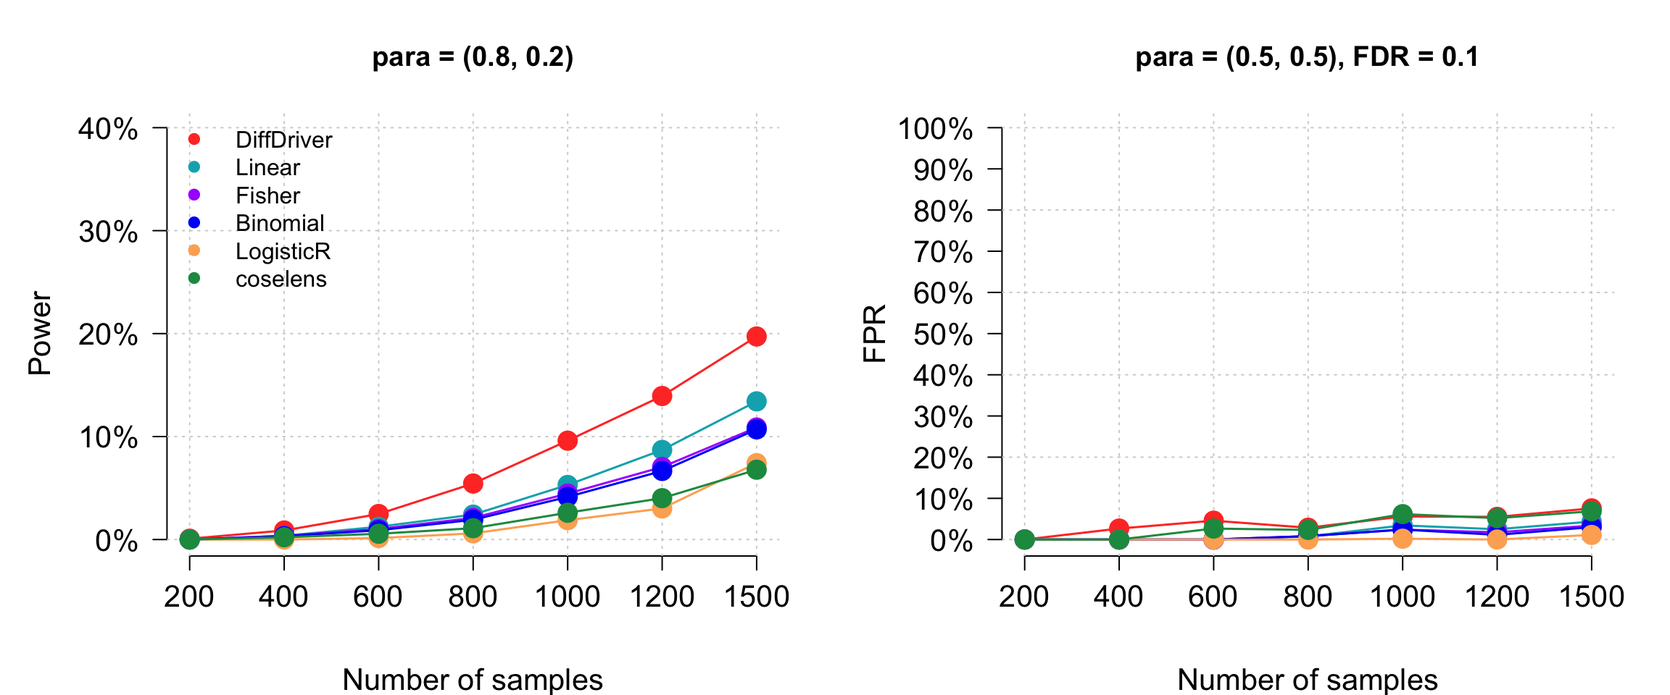
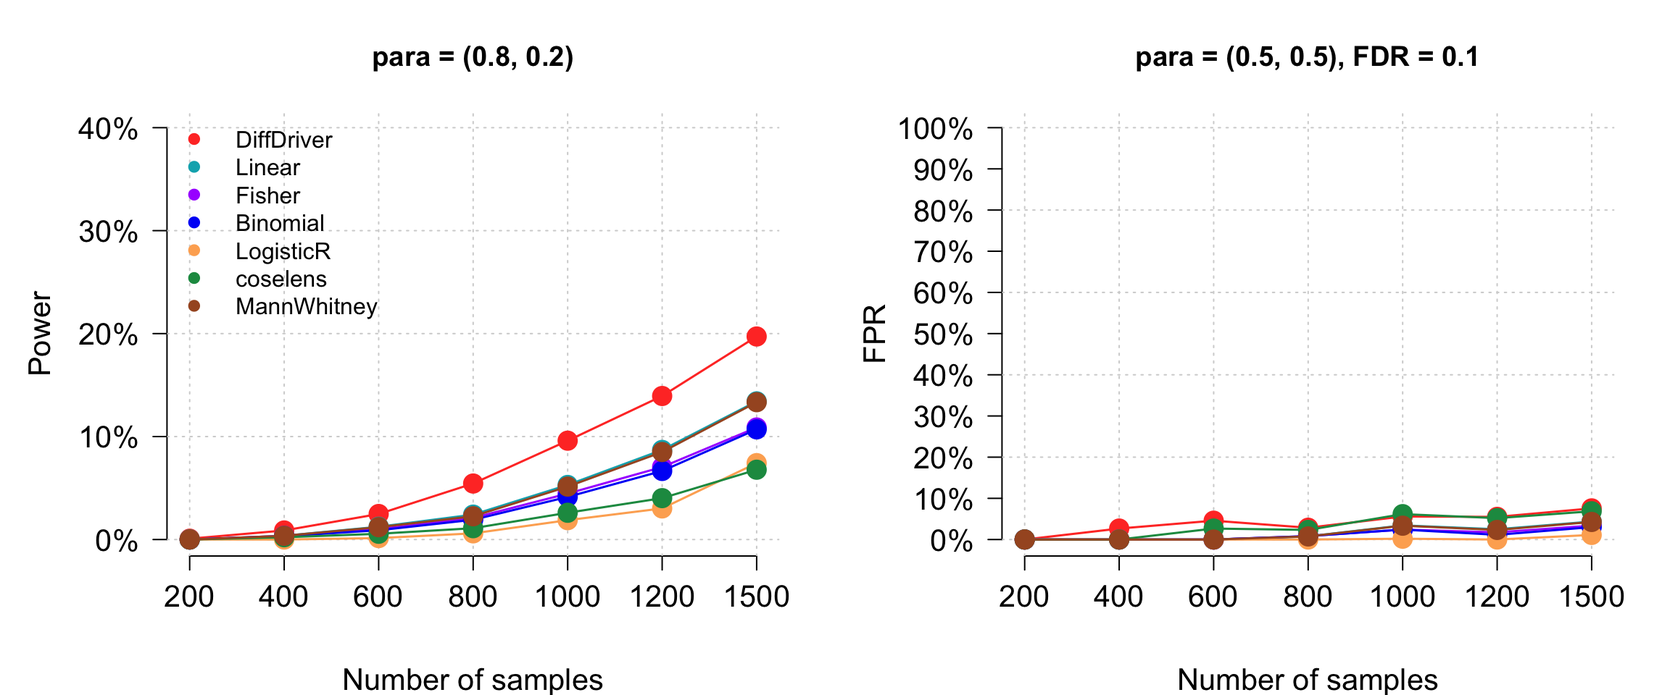
Add Mann-Whitney test to the benchmark (TSG_binary_0.8)
Wilcoxon rank-sum on per-gene per-sample mutation counts (case vs control),
run on the saved raw cohorts. load_and_compute now adds any available extra
method (coselens, Mann-Whitney) generically; Mann-Whitney tracks the
count-based tests (power ~0.13 at N=1500, controlled FPR).

diff --git a/docs/simulation-power.html b/docs/simulation-power.html
@@ -629,15 +629,15 @@ project makes it easier to run your code on other machines.</p>
 <div class="panel panel-default">
 <div class="panel-heading">
 <p class="panel-title">
-<a data-toggle="collapse" data-parent="#workflowr-checks" href="#strongRepositoryversionstrongahrefhttpsgithubcomszhaolabDiffDriverPAPERtree90bcec619e1206fe3d21bc9b15fc16f7dc23b557targetblank90bcec6a">
+<a data-toggle="collapse" data-parent="#workflowr-checks" href="#strongRepositoryversionstrongahrefhttpsgithubcomszhaolabDiffDriverPAPERtree75326b2c75913e662bfd93378420faafb4f3c619targetblank75326b2a">
 <span class="glyphicon glyphicon-ok text-success"
 aria-hidden="true"></span> <strong>Repository version:</strong>
-<a href="https://github.com/szhaolab/DiffDriver-PAPER/tree/90bcec619e1206fe3d21bc9b15fc16f7dc23b557" target="_blank">90bcec6</a>
+<a href="https://github.com/szhaolab/DiffDriver-PAPER/tree/75326b2c75913e662bfd93378420faafb4f3c619" target="_blank">75326b2</a>
 </a>
 </p>
 </div>
 <div
[2 lines of base64/hex data omitted]
 class="panel-collapse collapse">
 <div class="panel-body">
 <p>
@@ -647,7 +647,7 @@ reproducibility.
 </p>
 <p>
 The results in this page were generated with repository version
-<a href="https://github.com/szhaolab/DiffDriver-PAPER/tree/90bcec619e1206fe3d21bc9b15fc16f7dc23b557" target="_blank">90bcec6</a>.
+<a href="https://github.com/szhaolab/DiffDriver-PAPER/tree/75326b2c75913e662bfd93378420faafb4f3c619" target="_blank">75326b2</a>.
 See the <em>Past versions</em> tab to see a history of the changes made
 to the R Markdown and HTML files.
 </p>
@@ -713,6 +713,40 @@ Message
 </tr>
 </thead>
 <tbody>
+<tr>
+<td>
+Rmd
+</td>
+<td>
+<a href="https://github.com/szhaolab/DiffDriver-PAPER/blob/75326b2c75913e662bfd93378420faafb4f3c619/analysis/simulation-power.Rmd" target="_blank">75326b2</a>
+</td>
+<td>
+Siming
+</td>
+<td>
+2026-07-04
+</td>
+<td>
+Add coselens to the TSG_binary_0.8 power/FPR plot
+</td>
+</tr>
+<tr>
+<td>
+html
+</td>
+<td>
+<a href="https://rawcdn.githack.com/szhaolab/DiffDriver-PAPER/75326b2c75913e662bfd93378420faafb4f3c619/docs/simulation-power.html" target="_blank">75326b2</a>
+</td>
+<td>
+Siming
+</td>
+<td>
+2026-07-04
+</td>
+<td>
+Add coselens to the TSG_binary_0.8 power/FPR plot
+</td>
+</tr>
 <tr>
 <td>
 Rmd
@@ -1103,9 +1137,9 @@ diffdriver package supplies the underlying model and test functions.</p>
 <div class="sourceCode" id="cb13"><pre class="sourceCode r"><code class="sourceCode r"><span id="cb13-1"><a href="#cb13-1" tabindex="-1"></a>knitr<span class="sc">::</span>opts_chunk<span class="sc">$</span><span class="fu">set</span>(<span class="at">echo =</span> <span class="cn">TRUE</span>)</span>
 <span id="cb13-2"><a href="#cb13-2" tabindex="-1"></a></span>
 <span id="cb13-3"><a href="#cb13-3" tabindex="-1"></a>METHODS      <span class="ot">&lt;-</span> <span class="fu">c</span>(<span class="st">&quot;DiffDriver&quot;</span>, <span class="st">&quot;Linear&quot;</span>, <span class="st">&quot;Fisher&quot;</span>, <span class="st">&quot;Binomial&quot;</span>, <span class="st">&quot;LogisticR&quot;</span>)</span>
-<span id="cb13-4"><a href="#cb13-4" tabindex="-1"></a><span class="co"># 6th colour is used for coselens, which is added only for settings that have a</span></span>
-<span id="cb13-5"><a href="#cb13-5" tabindex="-1"></a><span class="co"># pppower_all_&lt;SETTING&gt;_coselens.Rd file (see load_and_compute).</span></span>
-<span id="cb13-6"><a href="#cb13-6" tabindex="-1"></a>MYCOL        <span class="ot">&lt;-</span> <span class="fu">c</span>(<span class="st">&quot;#FF3D2E&quot;</span>, <span class="st">&quot;#00AFBB&quot;</span>, <span class="st">&quot;#aa00ff&quot;</span>, <span class="st">&quot;#0001f6&quot;</span>, <span class="st">&quot;#fdae61&quot;</span>, <span class="st">&quot;#1a9850&quot;</span>)</span>
+<span id="cb13-4"><a href="#cb13-4" tabindex="-1"></a><span class="co"># Colours 6+ are for the extra methods (coselens, Mann-Whitney), added only for</span></span>
+<span id="cb13-5"><a href="#cb13-5" tabindex="-1"></a><span class="co"># settings that have the corresponding pppower_all_&lt;SETTING&gt;_&lt;method&gt;.Rd (load_and_compute).</span></span>
+<span id="cb13-6"><a href="#cb13-6" tabindex="-1"></a>MYCOL        <span class="ot">&lt;-</span> <span class="fu">c</span>(<span class="st">&quot;#FF3D2E&quot;</span>, <span class="st">&quot;#00AFBB&quot;</span>, <span class="st">&quot;#aa00ff&quot;</span>, <span class="st">&quot;#0001f6&quot;</span>, <span class="st">&quot;#fdae61&quot;</span>, <span class="st">&quot;#1a9850&quot;</span>, <span class="st">&quot;#a65628&quot;</span>)</span>
 <span id="cb13-7"><a href="#cb13-7" tabindex="-1"></a>FDR          <span class="ot">&lt;-</span> <span class="fl">0.1</span></span>
 <span id="cb13-8"><a href="#cb13-8" tabindex="-1"></a>BINARY_SIZES <span class="ot">&lt;-</span> <span class="fu">c</span>(<span class="dv">200</span>, <span class="dv">400</span>, <span class="dv">600</span>, <span class="dv">800</span>, <span class="dv">1000</span>, <span class="dv">1200</span>, <span class="dv">1500</span>)</span>
 <span id="cb13-9"><a href="#cb13-9" tabindex="-1"></a>CONTI_SIZES  <span class="ot">&lt;-</span> <span class="fu">c</span>(<span class="dv">200</span>, <span class="dv">400</span>, <span class="dv">600</span>, <span class="dv">800</span>, <span class="dv">1000</span>, <span class="dv">1200</span>)</span>
@@ -1166,92 +1200,99 @@ diffdriver package supplies the underlying model and test functions.</p>
 <span id="cb13-64"><a href="#cb13-64" tabindex="-1"></a>  diff_all  <span class="ot">&lt;-</span> ed<span class="sc">$</span>simures_all</span>
 <span id="cb13-65"><a href="#cb13-65" tabindex="-1"></a>  other_all <span class="ot">&lt;-</span> eo<span class="sc">$</span>simures_all</span>
 <span id="cb13-66"><a href="#cb13-66" tabindex="-1"></a></span>
-<span id="cb13-67"><a href="#cb13-67" tabindex="-1"></a>  <span class="co"># coselens is included only where a consolidated coselens file exists for the setting</span></span>
-<span id="cb13-68"><a href="#cb13-68" tabindex="-1"></a>  <span class="co"># (each gene key holds a $coselens.pvalue vector, same format as the other methods).</span></span>
-<span id="cb13-69"><a href="#cb13-69" tabindex="-1"></a>  cos_file <span class="ot">&lt;-</span> <span class="fu">file.path</span>(base, <span class="fu">sprintf</span>(<span class="st">&quot;pppower_all_%s_coselens.Rd&quot;</span>, setting))</span>
-<span id="cb13-70"><a href="#cb13-70" tabindex="-1"></a>  has_cos  <span class="ot">&lt;-</span> <span class="fu">file.exists</span>(cos_file)</span>
-<span id="cb13-71"><a href="#cb13-71" tabindex="-1"></a>  <span class="cf">if</span> (has_cos) { ec <span class="ot">&lt;-</span> <span class="fu">new.env</span>(); <span class="fu">load</span>(cos_file, <span class="at">envir =</span> ec); cos_all <span class="ot">&lt;-</span> ec<span class="sc">$</span>simures_all }</span>
-<span id="cb13-72"><a href="#cb13-72" tabindex="-1"></a>  methods   <span class="ot">&lt;-</span> <span class="cf">if</span> (has_cos) <span class="fu">c</span>(METHODS, <span class="st">&quot;coselens&quot;</span>) <span class="cf">else</span> METHODS</span>
-<span id="cb13-73"><a href="#cb13-73" tabindex="-1"></a>  n_methods <span class="ot">&lt;-</span> <span class="fu">length</span>(methods)</span>
-<span id="cb13-74"><a href="#cb13-74" tabindex="-1"></a></span>
-<span id="cb13-75"><a href="#cb13-75" tabindex="-1"></a>  power_mat <span class="ot">&lt;-</span> fpr_mat <span class="ot">&lt;-</span> <span class="fu">matrix</span>(</span>
-<span id="cb13-76"><a href="#cb13-76" tabindex="-1"></a>    <span class="at">nrow =</span> n_methods, <span class="at">ncol =</span> <span class="fu">length</span>(sample_sizes),</span>
-<span id="cb13-77"><a href="#cb13-77" tabindex="-1"></a>    <span class="at">dimnames =</span> <span class="fu">list</span>(methods, sample_sizes)</span>
-<span id="cb13-78"><a href="#cb13-78" tabindex="-1"></a>  )</span>
-<span id="cb13-79"><a href="#cb13-79" tabindex="-1"></a>  <span class="cf">for</span> (s <span class="cf">in</span> <span class="fu">seq_along</span>(sample_sizes)) {</span>
-<span id="cb13-80"><a href="#cb13-80" tabindex="-1"></a>    N <span class="ot">&lt;-</span> sample_sizes[s]</span>
-<span id="cb13-81"><a href="#cb13-81" tabindex="-1"></a>    m.pvalue <span class="ot">&lt;-</span> <span class="cn">NULL</span></span>
-<span id="cb13-82"><a href="#cb13-82" tabindex="-1"></a>    n_iter   <span class="ot">&lt;-</span> <span class="cn">NULL</span></span>
-<span id="cb13-83"><a href="#cb13-83" tabindex="-1"></a>    <span class="cf">for</span> (g <span class="cf">in</span> <span class="fu">seq_len</span>(n_genes)) {</span>
-<span id="cb13-84"><a href="#cb13-84" tabindex="-1"></a>      key   <span class="ot">&lt;-</span> <span class="fu">sub</span>(<span class="st">&quot;</span><span class="sc">\\</span><span class="st">.Rd$&quot;</span>, <span class="st">&quot;&quot;</span>, <span class="fu">file_fn</span>(N, g))</span>
-<span id="cb13-85"><a href="#cb13-85" tabindex="-1"></a>      sdiff <span class="ot">&lt;-</span> diff_all[[key]]</span>
-<span id="cb13-86"><a href="#cb13-86" tabindex="-1"></a>      soth  <span class="ot">&lt;-</span> other_all[[key]]</span>
-<span id="cb13-87"><a href="#cb13-87" tabindex="-1"></a>      <span class="cf">if</span> (<span class="fu">is.null</span>(n_iter)) {</span>
-<span id="cb13-88"><a href="#cb13-88" tabindex="-1"></a>        n_avail <span class="ot">&lt;-</span> <span class="fu">length</span>(sdiff[[<span class="st">&quot;m1.pvalue&quot;</span>]])</span>
-<span id="cb13-89"><a href="#cb13-89" tabindex="-1"></a>        n_iter  <span class="ot">&lt;-</span> <span class="cf">if</span> (<span class="sc">!</span><span class="fu">is.null</span>(Nsim)) <span class="fu">min</span>(Nsim, n_avail) <span class="cf">else</span> n_avail</span>
-<span id="cb13-90"><a href="#cb13-90" tabindex="-1"></a>        m.pvalue <span class="ot">&lt;-</span> <span class="fu">lapply</span>(<span class="fu">seq_len</span>(n_methods), <span class="cf">function</span>(x)</span>
-<span id="cb13-91"><a href="#cb13-91" tabindex="-1"></a>          <span class="fu">matrix</span>(<span class="at">nrow =</span> n_genes, <span class="at">ncol =</span> n_iter))</span>
-<span id="cb13-92"><a href="#cb13-92" tabindex="-1"></a>      }</span>
-<span id="cb13-93"><a href="#cb13-93" tabindex="-1"></a>      idx <span class="ot">&lt;-</span> <span class="fu">seq_len</span>(n_iter)</span>
-<span id="cb13-94"><a href="#cb13-94" tabindex="-1"></a>      m.pvalue[[<span class="dv">1</span>]][g, ] <span class="ot">&lt;-</span> sdiff[[<span class="st">&quot;m1.pvalue&quot;</span>]][idx]</span>
-<span id="cb13-95"><a href="#cb13-95" tabindex="-1"></a>      m.pvalue[[<span class="dv">2</span>]][g, ] <span class="ot">&lt;-</span> soth[[<span class="st">&quot;m1.pvalue&quot;</span>]][idx]</span>
-<span id="cb13-96"><a href="#cb13-96" tabindex="-1"></a>      m.pvalue[[<span class="dv">3</span>]][g, ] <span class="ot">&lt;-</span> soth[[<span class="st">&quot;m2.pvalue&quot;</span>]][idx]</span>
-<span id="cb13-97"><a href="#cb13-97" tabindex="-1"></a>      m.pvalue[[<span class="dv">4</span>]][g, ] <span class="ot">&lt;-</span> soth[[<span class="st">&quot;m3.pvalue&quot;</span>]][idx]</span>
-<span id="cb13-98"><a href="#cb13-98" tabindex="-1"></a>      m.pvalue[[<span class="dv">5</span>]][g, ] <span class="ot">&lt;-</span> soth[[<span class="st">&quot;m4.pvalue&quot;</span>]][idx]</span>
-<span id="cb13-99"><a href="#cb13-99" tabindex="-1"></a>      <span class="cf">if</span> (has_cos) m.pvalue[[<span class="dv">6</span>]][g, ] <span class="ot">&lt;-</span> cos_all[[key]][[<span class="st">&quot;coselens.pvalue&quot;</span>]][idx]</span>
-<span id="cb13-100"><a href="#cb13-100" tabindex="-1"></a>    }</span>
-<span id="cb13-101"><a href="#cb13-101" tabindex="-1"></a>    metrics <span class="ot">&lt;-</span> <span class="fu">compute_metrics</span>(m.pvalue, n_iter)</span>
-<span id="cb13-102"><a href="#cb13-102" tabindex="-1"></a>    power_mat[, s] <span class="ot">&lt;-</span> metrics<span class="sc">$</span>power</span>
-<span id="cb13-103"><a href="#cb13-103" tabindex="-1"></a>    fpr_mat[, s]   <span class="ot">&lt;-</span> metrics<span class="sc">$</span>fpr</span>
-<span id="cb13-104"><a href="#cb13-104" tabindex="-1"></a>  }</span>
-<span id="cb13-105"><a href="#cb13-105" tabindex="-1"></a>  <span class="fu">list</span>(<span class="at">power =</span> power_mat, <span class="at">fpr =</span> fpr_mat, <span class="at">methods =</span> methods)</span>
-<span id="cb13-106"><a href="#cb13-106" tabindex="-1"></a>}</span>
-<span id="cb13-107"><a href="#cb13-107" tabindex="-1"></a></span>
-<span id="cb13-108"><a href="#cb13-108" tabindex="-1"></a><span class="co">#&#39; Plot power and FPR side by side.</span></span>
-<span id="cb13-109"><a href="#cb13-109" tabindex="-1"></a><span class="co">#&#39; @param res Output from load_and_compute (list with power and fpr matrices).</span></span>
-<span id="cb13-110"><a href="#cb13-110" tabindex="-1"></a><span class="co">#&#39; @param power_title Title for the power panel.</span></span>
-<span id="cb13-111"><a href="#cb13-111" tabindex="-1"></a><span class="co">#&#39; @param fpr_title Title for the FPR panel.</span></span>
-<span id="cb13-112"><a href="#cb13-112" tabindex="-1"></a><span class="co">#&#39; @param power_ylim Y-axis upper limit for the power panel.</span></span>
-<span id="cb13-113"><a href="#cb13-113" tabindex="-1"></a><span class="co">#&#39; @param show_legend Whether to show the method legend on the power panel.</span></span>
-<span id="cb13-114"><a href="#cb13-114" tabindex="-1"></a>plot_power_fpr <span class="ot">&lt;-</span> <span class="cf">function</span>(res, power_title, fpr_title,</span>
-<span id="cb13-115"><a href="#cb13-115" tabindex="-1"></a>                           <span class="at">power_ylim =</span> <span class="fl">0.4</span>, <span class="at">show_legend =</span> <span class="cn">TRUE</span>) {</span>
-<span id="cb13-116"><a href="#cb13-116" tabindex="-1"></a>  x     <span class="ot">&lt;-</span> <span class="fu">seq_len</span>(<span class="fu">ncol</span>(res<span class="sc">$</span>power))</span>
-<span id="cb13-117"><a href="#cb13-117" tabindex="-1"></a>  sizes <span class="ot">&lt;-</span> <span class="fu">colnames</span>(res<span class="sc">$</span>power)</span>
-<span id="cb13-118"><a href="#cb13-118" tabindex="-1"></a>  <span class="fu">par</span>(<span class="at">mfrow =</span> <span class="fu">c</span>(<span class="dv">1</span>, <span class="dv">2</span>), <span class="at">mar =</span> <span class="fu">c</span>(<span class="dv">5</span>, <span class="dv">6</span>, <span class="dv">4</span>, <span class="dv">2</span>))</span>
-<span id="cb13-119"><a href="#cb13-119" tabindex="-1"></a></span>
-<span id="cb13-120"><a href="#cb13-120" tabindex="-1"></a>  <span class="co"># Power panel</span></span>
-<span id="cb13-121"><a href="#cb13-121" tabindex="-1"></a>  <span class="fu">plot</span>(x, <span class="at">ylim =</span> <span class="fu">c</span>(<span class="dv">0</span>, power_ylim), <span class="at">col =</span> <span class="st">&quot;white&quot;</span>, <span class="at">ylab =</span> <span class="st">&quot;Power&quot;</span>,</span>
-<span id="cb13-122"><a href="#cb13-122" tabindex="-1"></a>       <span class="at">xlab =</span> <span class="st">&quot;Number of samples&quot;</span>, <span class="at">yaxt =</span> <span class="st">&quot;n&quot;</span>, <span class="at">xaxt =</span> <span class="st">&quot;n&quot;</span>, <span class="at">bty =</span> <span class="st">&quot;n&quot;</span>,</span>
-<span id="cb13-123"><a href="#cb13-123" tabindex="-1"></a>       <span class="at">cex.lab =</span> <span class="fl">1.3</span>, <span class="at">mgp =</span> <span class="fu">c</span>(<span class="dv">4</span>, <span class="dv">1</span>, <span class="dv">0</span>))</span>
-<span id="cb13-124"><a href="#cb13-124" tabindex="-1"></a>  <span class="fu">title</span>(power_title)</span>
-<span id="cb13-125"><a href="#cb13-125" tabindex="-1"></a>  yticks <span class="ot">&lt;-</span> <span class="fu">seq</span>(<span class="dv">0</span>, power_ylim, <span class="fl">0.1</span>)</span>
-<span id="cb13-126"><a href="#cb13-126" tabindex="-1"></a>  <span class="fu">axis</span>(<span class="dv">2</span>, <span class="at">at =</span> yticks, <span class="at">lab =</span> <span class="fu">paste0</span>(yticks <span class="sc">*</span> <span class="dv">100</span>, <span class="st">&quot;%&quot;</span>), <span class="at">las =</span> <span class="dv">2</span>, <span class="at">cex.axis =</span> <span class="fl">1.3</span>)</span>
-<span id="cb13-127"><a href="#cb13-127" tabindex="-1"></a>  <span class="fu">axis</span>(<span class="dv">1</span>, <span class="at">at =</span> x, <span class="at">lab =</span> sizes, <span class="at">cex.axis =</span> <span class="fl">1.3</span>)</span>
-<span id="cb13-128"><a href="#cb13-128" tabindex="-1"></a>  <span class="fu">grid</span>()</span>
-<span id="cb13-129"><a href="#cb13-129" tabindex="-1"></a>  <span class="cf">for</span> (r <span class="cf">in</span> <span class="fu">seq_len</span>(<span class="fu">nrow</span>(res<span class="sc">$</span>power))) {</span>
-<span id="cb13-130"><a href="#cb13-130" tabindex="-1"></a>    <span class="fu">points</span>(x, res<span class="sc">$</span>power[r, ], <span class="at">col =</span> MYCOL[r], <span class="at">pch =</span> <span class="dv">19</span>, <span class="at">cex =</span> <span class="fl">1.8</span>)</span>
-<span id="cb13-131"><a href="#cb13-131" tabindex="-1"></a>    <span class="fu">lines</span>(x, res<span class="sc">$</span>power[r, ], <span class="at">col =</span> MYCOL[r], <span class="at">lwd =</span> <span class="fl">1.5</span>)</span>
-<span id="cb13-132"><a href="#cb13-132" tabindex="-1"></a>  }</span>
-<span id="cb13-133"><a href="#cb13-133" tabindex="-1"></a>  <span class="cf">if</span> (show_legend) {</span>
-<span id="cb13-134"><a href="#cb13-134" tabindex="-1"></a>    mm <span class="ot">&lt;-</span> <span class="fu">rownames</span>(res<span class="sc">$</span>power)</span>
-<span id="cb13-135"><a href="#cb13-135" tabindex="-1"></a>    <span class="fu">legend</span>(<span class="st">&quot;topleft&quot;</span>, <span class="at">legend =</span> mm, <span class="at">col =</span> MYCOL[<span class="fu">seq_along</span>(mm)],</span>
-<span id="cb13-136"><a href="#cb13-136" tabindex="-1"></a>           <span class="at">lwd =</span> <span class="dv">1</span>, <span class="at">bty =</span> <span class="st">&quot;n&quot;</span>, <span class="at">lty =</span> <span class="cn">NA</span>, <span class="at">pch =</span> <span class="dv">19</span>)</span>
-<span id="cb13-137"><a href="#cb13-137" tabindex="-1"></a>  }</span>
-<span id="cb13-138"><a href="#cb13-138" tabindex="-1"></a></span>
-<span id="cb13-139"><a href="#cb13-139" tabindex="-1"></a>  <span class="co"># FPR panel</span></span>
-<span id="cb13-140"><a href="#cb13-140" tabindex="-1"></a>  <span class="fu">plot</span>(x, <span class="at">ylim =</span> <span class="fu">c</span>(<span class="dv">0</span>, <span class="dv">1</span>), <span class="at">col =</span> <span class="st">&quot;white&quot;</span>, <span class="at">ylab =</span> <span class="st">&quot;FPR&quot;</span>,</span>
-<span id="cb13-141"><a href="#cb13-141" tabindex="-1"></a>       <span class="at">xlab =</span> <span class="st">&quot;Number of samples&quot;</span>, <span class="at">yaxt =</span> <span class="st">&quot;n&quot;</span>, <span class="at">xaxt =</span> <span class="st">&quot;n&quot;</span>, <span class="at">bty =</span> <span class="st">&quot;n&quot;</span>,</span>
-<span id="cb13-142"><a href="#cb13-142" tabindex="-1"></a>       <span class="at">cex.lab =</span> <span class="fl">1.3</span>, <span class="at">mgp =</span> <span class="fu">c</span>(<span class="dv">4</span>, <span class="dv">1</span>, <span class="dv">0</span>))</span>
-<span id="cb13-143"><a href="#cb13-143" tabindex="-1"></a>  <span class="fu">title</span>(fpr_title)</span>
-<span id="cb13-144"><a href="#cb13-144" tabindex="-1"></a>  <span class="fu">axis</span>(<span class="dv">2</span>, <span class="at">at =</span> <span class="fu">seq</span>(<span class="dv">0</span>, <span class="dv">1</span>, <span class="fl">0.1</span>), <span class="at">lab =</span> <span class="fu">paste0</span>(<span class="fu">seq</span>(<span class="dv">0</span>, <span class="dv">100</span>, <span class="dv">10</span>), <span class="st">&quot;%&quot;</span>),</span>
-<span id="cb13-145"><a href="#cb13-145" tabindex="-1"></a>       <span class="at">las =</span> <span class="dv">2</span>, <span class="at">cex.axis =</span> <span class="fl">1.3</span>)</span>
-<span id="cb13-146"><a href="#cb13-146" tabindex="-1"></a>  <span class="fu">axis</span>(<span class="dv">1</span>, <span class="at">at =</span> x, <span class="at">lab =</span> sizes, <span class="at">cex.axis =</span> <span class="fl">1.3</span>)</span>
-<span id="cb13-147"><a href="#cb13-147" tabindex="-1"></a>  <span class="fu">grid</span>()</span>
-<span id="cb13-148"><a href="#cb13-148" tabindex="-1"></a>  <span class="cf">for</span> (r <span class="cf">in</span> <span class="fu">seq_len</span>(<span class="fu">nrow</span>(res<span class="sc">$</span>fpr))) {</span>
-<span id="cb13-149"><a href="#cb13-149" tabindex="-1"></a>    <span class="fu">points</span>(x, res<span class="sc">$</span>fpr[r, ], <span class="at">col =</span> MYCOL[r], <span class="at">pch =</span> <span class="dv">19</span>, <span class="at">cex =</span> <span class="fl">1.8</span>)</span>
-<span id="cb13-150"><a href="#cb13-150" tabindex="-1"></a>    <span class="fu">lines</span>(x, res<span class="sc">$</span>fpr[r, ], <span class="at">col =</span> MYCOL[r], <span class="at">lwd =</span> <span class="fl">1.5</span>)</span>
-<span id="cb13-151"><a href="#cb13-151" tabindex="-1"></a>  }</span>
-<span id="cb13-152"><a href="#cb13-152" tabindex="-1"></a>}</span></code></pre></div>
+<span id="cb13-67"><a href="#cb13-67" tabindex="-1"></a>  <span class="co"># Extra methods (coselens, Mann-Whitney) are added only where a consolidated file</span></span>
+<span id="cb13-68"><a href="#cb13-68" tabindex="-1"></a>  <span class="co"># exists for the setting; each gene key holds a &lt;field&gt; p-value vector like the others.</span></span>
+<span id="cb13-69"><a href="#cb13-69" tabindex="-1"></a>  EXTRA     <span class="ot">&lt;-</span> <span class="fu">list</span>(<span class="at">coselens =</span> <span class="st">&quot;coselens.pvalue&quot;</span>, <span class="at">MannWhitney =</span> <span class="st">&quot;mannwhitney.pvalue&quot;</span>)</span>
+<span id="cb13-70"><a href="#cb13-70" tabindex="-1"></a>  EXTRA_SFX <span class="ot">&lt;-</span> <span class="fu">c</span>(<span class="at">coselens =</span> <span class="st">&quot;coselens&quot;</span>, <span class="at">MannWhitney =</span> <span class="st">&quot;mannwhitney&quot;</span>)</span>
+<span id="cb13-71"><a href="#cb13-71" tabindex="-1"></a>  extra_all <span class="ot">&lt;-</span> <span class="fu">list</span>()</span>
+<span id="cb13-72"><a href="#cb13-72" tabindex="-1"></a>  <span class="cf">for</span> (nm <span class="cf">in</span> <span class="fu">names</span>(EXTRA)) {</span>
+<span id="cb13-73"><a href="#cb13-73" tabindex="-1"></a>    f <span class="ot">&lt;-</span> <span class="fu">file.path</span>(base, <span class="fu">sprintf</span>(<span class="st">&quot;pppower_all_%s_%s.Rd&quot;</span>, setting, EXTRA_SFX[[nm]]))</span>
+<span id="cb13-74"><a href="#cb13-74" tabindex="-1"></a>    <span class="cf">if</span> (<span class="fu">file.exists</span>(f)) { ee <span class="ot">&lt;-</span> <span class="fu">new.env</span>(); <span class="fu">load</span>(f, <span class="at">envir =</span> ee); extra_all[[nm]] <span class="ot">&lt;-</span> ee<span class="sc">$</span>simures_all }</span>
+<span id="cb13-75"><a href="#cb13-75" tabindex="-1"></a>  }</span>
+<span id="cb13-76"><a href="#cb13-76" tabindex="-1"></a>  methods   <span class="ot">&lt;-</span> <span class="fu">c</span>(METHODS, <span class="fu">names</span>(extra_all))</span>
+<span id="cb13-77"><a href="#cb13-77" tabindex="-1"></a>  n_methods <span class="ot">&lt;-</span> <span class="fu">length</span>(methods)</span>
+<span id="cb13-78"><a href="#cb13-78" tabindex="-1"></a></span>
+<span id="cb13-79"><a href="#cb13-79" tabindex="-1"></a>  power_mat <span class="ot">&lt;-</span> fpr_mat <span class="ot">&lt;-</span> <span class="fu">matrix</span>(</span>
+<span id="cb13-80"><a href="#cb13-80" tabindex="-1"></a>    <span class="at">nrow =</span> n_methods, <span class="at">ncol =</span> <span class="fu">length</span>(sample_sizes),</span>
+<span id="cb13-81"><a href="#cb13-81" tabindex="-1"></a>    <span class="at">dimnames =</span> <span class="fu">list</span>(methods, sample_sizes)</span>
+<span id="cb13-82"><a href="#cb13-82" tabindex="-1"></a>  )</span>
+<span id="cb13-83"><a href="#cb13-83" tabindex="-1"></a>  <span class="cf">for</span> (s <span class="cf">in</span> <span class="fu">seq_along</span>(sample_sizes)) {</span>
+<span id="cb13-84"><a href="#cb13-84" tabindex="-1"></a>    N <span class="ot">&lt;-</span> sample_sizes[s]</span>
+<span id="cb13-85"><a href="#cb13-85" tabindex="-1"></a>    m.pvalue <span class="ot">&lt;-</span> <span class="cn">NULL</span></span>
+<span id="cb13-86"><a href="#cb13-86" tabindex="-1"></a>    n_iter   <span class="ot">&lt;-</span> <span class="cn">NULL</span></span>
+<span id="cb13-87"><a href="#cb13-87" tabindex="-1"></a>    <span class="cf">for</span> (g <span class="cf">in</span> <span class="fu">seq_len</span>(n_genes)) {</span>
+<span id="cb13-88"><a href="#cb13-88" tabindex="-1"></a>      key   <span class="ot">&lt;-</span> <span class="fu">sub</span>(<span class="st">&quot;</span><span class="sc">\\</span><span class="st">.Rd$&quot;</span>, <span class="st">&quot;&quot;</span>, <span class="fu">file_fn</span>(N, g))</span>
+<span id="cb13-89"><a href="#cb13-89" tabindex="-1"></a>      sdiff <span class="ot">&lt;-</span> diff_all[[key]]</span>
+<span id="cb13-90"><a href="#cb13-90" tabindex="-1"></a>      soth  <span class="ot">&lt;-</span> other_all[[key]]</span>
+<span id="cb13-91"><a href="#cb13-91" tabindex="-1"></a>      <span class="cf">if</span> (<span class="fu">is.null</span>(n_iter)) {</span>
+<span id="cb13-92"><a href="#cb13-92" tabindex="-1"></a>        n_avail <span class="ot">&lt;-</span> <span class="fu">length</span>(sdiff[[<span class="st">&quot;m1.pvalue&quot;</span>]])</span>
+<span id="cb13-93"><a href="#cb13-93" tabindex="-1"></a>        n_iter  <span class="ot">&lt;-</span> <span class="cf">if</span> (<span class="sc">!</span><span class="fu">is.null</span>(Nsim)) <span class="fu">min</span>(Nsim, n_avail) <span class="cf">else</span> n_avail</span>
+<span id="cb13-94"><a href="#cb13-94" tabindex="-1"></a>        m.pvalue <span class="ot">&lt;-</span> <span class="fu">lapply</span>(<span class="fu">seq_len</span>(n_methods), <span class="cf">function</span>(x)</span>
+<span id="cb13-95"><a href="#cb13-95" tabindex="-1"></a>          <span class="fu">matrix</span>(<span class="at">nrow =</span> n_genes, <span class="at">ncol =</span> n_iter))</span>
+<span id="cb13-96"><a href="#cb13-96" tabindex="-1"></a>      }</span>
+<span id="cb13-97"><a href="#cb13-97" tabindex="-1"></a>      idx <span class="ot">&lt;-</span> <span class="fu">seq_len</span>(n_iter)</span>
+<span id="cb13-98"><a href="#cb13-98" tabindex="-1"></a>      m.pvalue[[<span class="dv">1</span>]][g, ] <span class="ot">&lt;-</span> sdiff[[<span class="st">&quot;m1.pvalue&quot;</span>]][idx]</span>
+<span id="cb13-99"><a href="#cb13-99" tabindex="-1"></a>      m.pvalue[[<span class="dv">2</span>]][g, ] <span class="ot">&lt;-</span> soth[[<span class="st">&quot;m1.pvalue&quot;</span>]][idx]</span>
+<span id="cb13-100"><a href="#cb13-100" tabindex="-1"></a>      m.pvalue[[<span class="dv">3</span>]][g, ] <span class="ot">&lt;-</span> soth[[<span class="st">&quot;m2.pvalue&quot;</span>]][idx]</span>
+<span id="cb13-101"><a href="#cb13-101" tabindex="-1"></a>      m.pvalue[[<span class="dv">4</span>]][g, ] <span class="ot">&lt;-</span> soth[[<span class="st">&quot;m3.pvalue&quot;</span>]][idx]</span>
+<span id="cb13-102"><a href="#cb13-102" tabindex="-1"></a>      m.pvalue[[<span class="dv">5</span>]][g, ] <span class="ot">&lt;-</span> soth[[<span class="st">&quot;m4.pvalue&quot;</span>]][idx]</span>
+<span id="cb13-103"><a href="#cb13-103" tabindex="-1"></a>      <span class="cf">for</span> (ei <span class="cf">in</span> <span class="fu">seq_along</span>(extra_all)) {</span>
+<span id="cb13-104"><a href="#cb13-104" tabindex="-1"></a>        nm <span class="ot">&lt;-</span> <span class="fu">names</span>(extra_all)[ei]</span>
+<span id="cb13-105"><a href="#cb13-105" tabindex="-1"></a>        m.pvalue[[<span class="fu">length</span>(METHODS) <span class="sc">+</span> ei]][g, ] <span class="ot">&lt;-</span> extra_all[[nm]][[key]][[EXTRA[[nm]]]][idx]</span>
+<span id="cb13-106"><a href="#cb13-106" tabindex="-1"></a>      }</span>
+<span id="cb13-107"><a href="#cb13-107" tabindex="-1"></a>    }</span>
+<span id="cb13-108"><a href="#cb13-108" tabindex="-1"></a>    metrics <span class="ot">&lt;-</span> <span class="fu">compute_metrics</span>(m.pvalue, n_iter)</span>
+<span id="cb13-109"><a href="#cb13-109" tabindex="-1"></a>    power_mat[, s] <span class="ot">&lt;-</span> metrics<span class="sc">$</span>power</span>
+<span id="cb13-110"><a href="#cb13-110" tabindex="-1"></a>    fpr_mat[, s]   <span class="ot">&lt;-</span> metrics<span class="sc">$</span>fpr</span>
+<span id="cb13-111"><a href="#cb13-111" tabindex="-1"></a>  }</span>
+<span id="cb13-112"><a href="#cb13-112" tabindex="-1"></a>  <span class="fu">list</span>(<span class="at">power =</span> power_mat, <span class="at">fpr =</span> fpr_mat, <span class="at">methods =</span> methods)</span>
+<span id="cb13-113"><a href="#cb13-113" tabindex="-1"></a>}</span>
+<span id="cb13-114"><a href="#cb13-114" tabindex="-1"></a></span>
+<span id="cb13-115"><a href="#cb13-115" tabindex="-1"></a><span class="co">#&#39; Plot power and FPR side by side.</span></span>
+<span id="cb13-116"><a href="#cb13-116" tabindex="-1"></a><span class="co">#&#39; @param res Output from load_and_compute (list with power and fpr matrices).</span></span>
+<span id="cb13-117"><a href="#cb13-117" tabindex="-1"></a><span class="co">#&#39; @param power_title Title for the power panel.</span></span>
+<span id="cb13-118"><a href="#cb13-118" tabindex="-1"></a><span class="co">#&#39; @param fpr_title Title for the FPR panel.</span></span>
+<span id="cb13-119"><a href="#cb13-119" tabindex="-1"></a><span class="co">#&#39; @param power_ylim Y-axis upper limit for the power panel.</span></span>
+<span id="cb13-120"><a href="#cb13-120" tabindex="-1"></a><span class="co">#&#39; @param show_legend Whether to show the method legend on the power panel.</span></span>
+<span id="cb13-121"><a href="#cb13-121" tabindex="-1"></a>plot_power_fpr <span class="ot">&lt;-</span> <span class="cf">function</span>(res, power_title, fpr_title,</span>
+<span id="cb13-122"><a href="#cb13-122" tabindex="-1"></a>                           <span class="at">power_ylim =</span> <span class="fl">0.4</span>, <span class="at">show_legend =</span> <span class="cn">TRUE</span>) {</span>
+<span id="cb13-123"><a href="#cb13-123" tabindex="-1"></a>  x     <span class="ot">&lt;-</span> <span class="fu">seq_len</span>(<span class="fu">ncol</span>(res<span class="sc">$</span>power))</span>
+<span id="cb13-124"><a href="#cb13-124" tabindex="-1"></a>  sizes <span class="ot">&lt;-</span> <span class="fu">colnames</span>(res<span class="sc">$</span>power)</span>
+<span id="cb13-125"><a href="#cb13-125" tabindex="-1"></a>  <span class="fu">par</span>(<span class="at">mfrow =</span> <span class="fu">c</span>(<span class="dv">1</span>, <span class="dv">2</span>), <span class="at">mar =</span> <span class="fu">c</span>(<span class="dv">5</span>, <span class="dv">6</span>, <span class="dv">4</span>, <span class="dv">2</span>))</span>
+<span id="cb13-126"><a href="#cb13-126" tabindex="-1"></a></span>
+<span id="cb13-127"><a href="#cb13-127" tabindex="-1"></a>  <span class="co"># Power panel</span></span>
+<span id="cb13-128"><a href="#cb13-128" tabindex="-1"></a>  <span class="fu">plot</span>(x, <span class="at">ylim =</span> <span class="fu">c</span>(<span class="dv">0</span>, power_ylim), <span class="at">col =</span> <span class="st">&quot;white&quot;</span>, <span class="at">ylab =</span> <span class="st">&quot;Power&quot;</span>,</span>
+<span id="cb13-129"><a href="#cb13-129" tabindex="-1"></a>       <span class="at">xlab =</span> <span class="st">&quot;Number of samples&quot;</span>, <span class="at">yaxt =</span> <span class="st">&quot;n&quot;</span>, <span class="at">xaxt =</span> <span class="st">&quot;n&quot;</span>, <span class="at">bty =</span> <span class="st">&quot;n&quot;</span>,</span>
+<span id="cb13-130"><a href="#cb13-130" tabindex="-1"></a>       <span class="at">cex.lab =</span> <span class="fl">1.3</span>, <span class="at">mgp =</span> <span class="fu">c</span>(<span class="dv">4</span>, <span class="dv">1</span>, <span class="dv">0</span>))</span>
+<span id="cb13-131"><a href="#cb13-131" tabindex="-1"></a>  <span class="fu">title</span>(power_title)</span>
+<span id="cb13-132"><a href="#cb13-132" tabindex="-1"></a>  yticks <span class="ot">&lt;-</span> <span class="fu">seq</span>(<span class="dv">0</span>, power_ylim, <span class="fl">0.1</span>)</span>
+<span id="cb13-133"><a href="#cb13-133" tabindex="-1"></a>  <span class="fu">axis</span>(<span class="dv">2</span>, <span class="at">at =</span> yticks, <span class="at">lab =</span> <span class="fu">paste0</span>(yticks <span class="sc">*</span> <span class="dv">100</span>, <span class="st">&quot;%&quot;</span>), <span class="at">las =</span> <span class="dv">2</span>, <span class="at">cex.axis =</span> <span class="fl">1.3</span>)</span>
+<span id="cb13-134"><a href="#cb13-134" tabindex="-1"></a>  <span class="fu">axis</span>(<span class="dv">1</span>, <span class="at">at =</span> x, <span class="at">lab =</span> sizes, <span class="at">cex.axis =</span> <span class="fl">1.3</span>)</span>
+<span id="cb13-135"><a href="#cb13-135" tabindex="-1"></a>  <span class="fu">grid</span>()</span>
+<span id="cb13-136"><a href="#cb13-136" tabindex="-1"></a>  <span class="cf">for</span> (r <span class="cf">in</span> <span class="fu">seq_len</span>(<span class="fu">nrow</span>(res<span class="sc">$</span>power))) {</span>
+<span id="cb13-137"><a href="#cb13-137" tabindex="-1"></a>    <span class="fu">points</span>(x, res<span class="sc">$</span>power[r, ], <span class="at">col =</span> MYCOL[r], <span class="at">pch =</span> <span class="dv">19</span>, <span class="at">cex =</span> <span class="fl">1.8</span>)</span>
+<span id="cb13-138"><a href="#cb13-138" tabindex="-1"></a>    <span class="fu">lines</span>(x, res<span class="sc">$</span>power[r, ], <span class="at">col =</span> MYCOL[r], <span class="at">lwd =</span> <span class="fl">1.5</span>)</span>
+<span id="cb13-139"><a href="#cb13-139" tabindex="-1"></a>  }</span>
+<span id="cb13-140"><a href="#cb13-140" tabindex="-1"></a>  <span class="cf">if</span> (show_legend) {</span>
+<span id="cb13-141"><a href="#cb13-141" tabindex="-1"></a>    mm <span class="ot">&lt;-</span> <span class="fu">rownames</span>(res<span class="sc">$</span>power)</span>
+<span id="cb13-142"><a href="#cb13-142" tabindex="-1"></a>    <span class="fu">legend</span>(<span class="st">&quot;topleft&quot;</span>, <span class="at">legend =</span> mm, <span class="at">col =</span> MYCOL[<span class="fu">seq_along</span>(mm)],</span>
+<span id="cb13-143"><a href="#cb13-143" tabindex="-1"></a>           <span class="at">lwd =</span> <span class="dv">1</span>, <span class="at">bty =</span> <span class="st">&quot;n&quot;</span>, <span class="at">lty =</span> <span class="cn">NA</span>, <span class="at">pch =</span> <span class="dv">19</span>)</span>
+<span id="cb13-144"><a href="#cb13-144" tabindex="-1"></a>  }</span>
+<span id="cb13-145"><a href="#cb13-145" tabindex="-1"></a></span>
+<span id="cb13-146"><a href="#cb13-146" tabindex="-1"></a>  <span class="co"># FPR panel</span></span>
+<span id="cb13-147"><a href="#cb13-147" tabindex="-1"></a>  <span class="fu">plot</span>(x, <span class="at">ylim =</span> <span class="fu">c</span>(<span class="dv">0</span>, <span class="dv">1</span>), <span class="at">col =</span> <span class="st">&quot;white&quot;</span>, <span class="at">ylab =</span> <span class="st">&quot;FPR&quot;</span>,</span>
+<span id="cb13-148"><a href="#cb13-148" tabindex="-1"></a>       <span class="at">xlab =</span> <span class="st">&quot;Number of samples&quot;</span>, <span class="at">yaxt =</span> <span class="st">&quot;n&quot;</span>, <span class="at">xaxt =</span> <span class="st">&quot;n&quot;</span>, <span class="at">bty =</span> <span class="st">&quot;n&quot;</span>,</span>
+<span id="cb13-149"><a href="#cb13-149" tabindex="-1"></a>       <span class="at">cex.lab =</span> <span class="fl">1.3</span>, <span class="at">mgp =</span> <span class="fu">c</span>(<span class="dv">4</span>, <span class="dv">1</span>, <span class="dv">0</span>))</span>
+<span id="cb13-150"><a href="#cb13-150" tabindex="-1"></a>  <span class="fu">title</span>(fpr_title)</span>
+<span id="cb13-151"><a href="#cb13-151" tabindex="-1"></a>  <span class="fu">axis</span>(<span class="dv">2</span>, <span class="at">at =</span> <span class="fu">seq</span>(<span class="dv">0</span>, <span class="dv">1</span>, <span class="fl">0.1</span>), <span class="at">lab =</span> <span class="fu">paste0</span>(<span class="fu">seq</span>(<span class="dv">0</span>, <span class="dv">100</span>, <span class="dv">10</span>), <span class="st">&quot;%&quot;</span>),</span>
+<span id="cb13-152"><a href="#cb13-152" tabindex="-1"></a>       <span class="at">las =</span> <span class="dv">2</span>, <span class="at">cex.axis =</span> <span class="fl">1.3</span>)</span>
+<span id="cb13-153"><a href="#cb13-153" tabindex="-1"></a>  <span class="fu">axis</span>(<span class="dv">1</span>, <span class="at">at =</span> x, <span class="at">lab =</span> sizes, <span class="at">cex.axis =</span> <span class="fl">1.3</span>)</span>
+<span id="cb13-154"><a href="#cb13-154" tabindex="-1"></a>  <span class="fu">grid</span>()</span>
+<span id="cb13-155"><a href="#cb13-155" tabindex="-1"></a>  <span class="cf">for</span> (r <span class="cf">in</span> <span class="fu">seq_len</span>(<span class="fu">nrow</span>(res<span class="sc">$</span>fpr))) {</span>
+<span id="cb13-156"><a href="#cb13-156" tabindex="-1"></a>    <span class="fu">points</span>(x, res<span class="sc">$</span>fpr[r, ], <span class="at">col =</span> MYCOL[r], <span class="at">pch =</span> <span class="dv">19</span>, <span class="at">cex =</span> <span class="fl">1.8</span>)</span>
+<span id="cb13-157"><a href="#cb13-157" tabindex="-1"></a>    <span class="fu">lines</span>(x, res<span class="sc">$</span>fpr[r, ], <span class="at">col =</span> MYCOL[r], <span class="at">lwd =</span> <span class="fl">1.5</span>)</span>
+<span id="cb13-158"><a href="#cb13-158" tabindex="-1"></a>  }</span>
+<span id="cb13-159"><a href="#cb13-159" tabindex="-1"></a>}</span></code></pre></div>
 </div>
 </div>
 <div id="reproducing-figure-3-in-paper" class="section level2">
@@ -1299,6 +1340,17 @@ Date
 </tr>
 </thead>
 <tbody>
+<tr>
+<td>
+<a href="https://github.com/szhaolab/DiffDriver-PAPER/blob/75326b2c75913e662bfd93378420faafb4f3c619/docs/figure/simulation-power.Rmd/tsg-binary-08-1.png" target="_blank">75326b2</a>
+</td>
+<td>
+Siming
+</td>
+<td>
+2026-07-04
+</td>
+</tr>
 <tr>
 <td>
 <a href="https://github.com/szhaolab/DiffDriver-PAPER/blob/81ae711b196557b72ff8d811d9fb4f5f7b87ecc6/docs/figure/simulation-power.Rmd/tsg-binary-08-1.png" target="_blank">81ae711</a>
